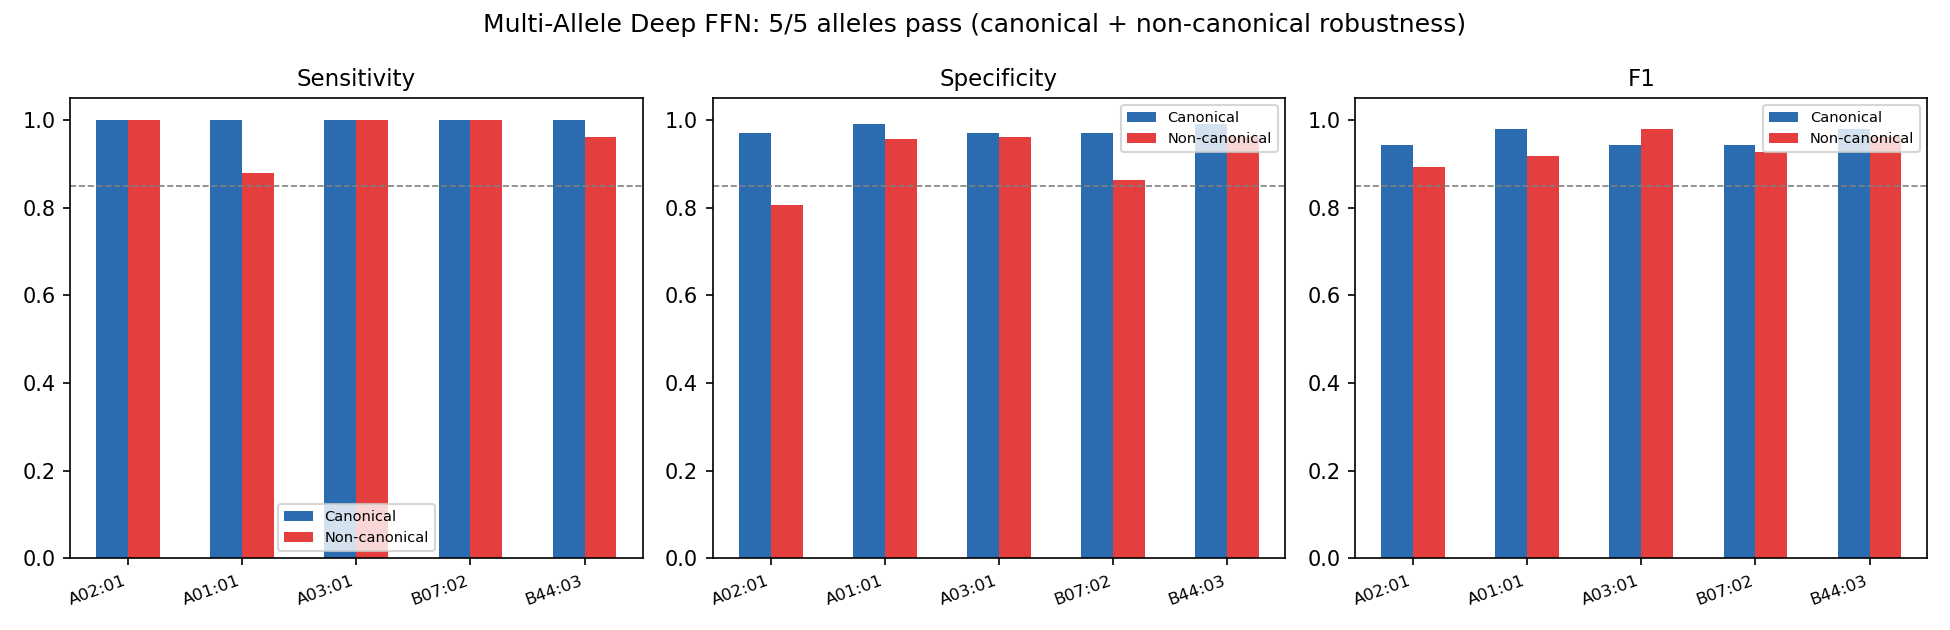
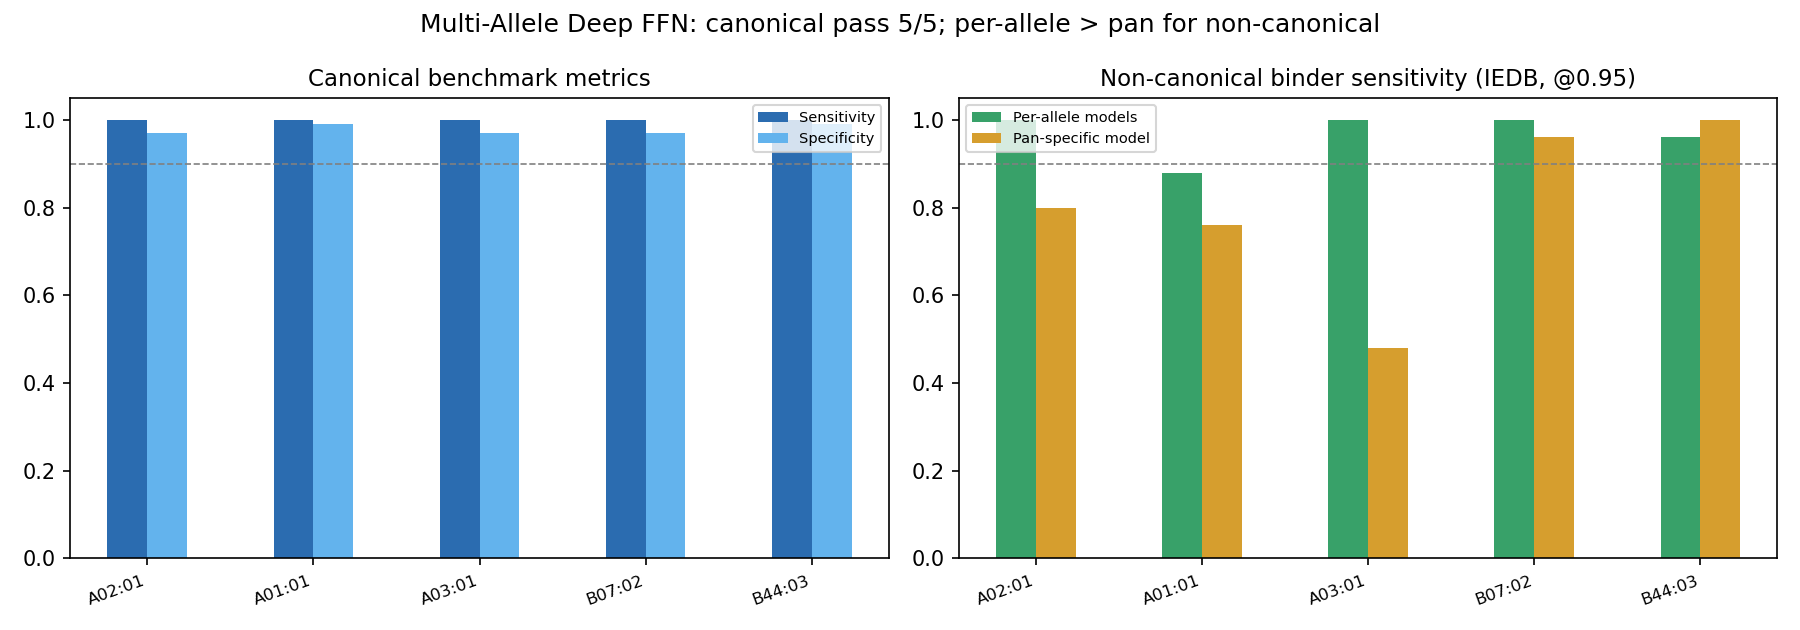
research(results): Step B — pan-specific model passes canonical but loses non-canonical robustness
A single allele-aware Deep FFN (BLOSUM62+allele one-hot) passes all 5 canonical
benchmarks but non-canonical sens drops: A*03:01 1.0->0.48, A*02:01 1.0->0.80.
Allele one-hot dilutes allele-specific structural signal. Per-allele models remain
the better choice for non-canonical (neoantigen) discovery.

diff --git a/src/plot_multi_allele_results.py b/src/plot_multi_allele_results.py
@@ -1,12 +1,11 @@
 #!/usr/bin/env python3
-"""Generate the 5-allele multi-allele results figure (runs under base anaconda)."""
-import json, os
+"""Generate 5-allele results figure incl. pan vs per-allele non-canonical comparison."""
+import os
 import matplotlib
 matplotlib.use("Agg")
 import matplotlib.pyplot as plt
 import numpy as np
 
-# Canonical benchmark results (from 06_Logs/multi_allele_results.md)
 CANON = {
     "HLA-A*02:01": (1.0, 0.97, 0.943),
     "HLA-A*01:01": (1.0, 0.99, 0.980),
@@ -14,31 +13,48 @@ CANON = {
     "HLA-B*07:02": (1.0, 0.97, 0.943),
     "HLA-B*44:03": (1.0, 0.99, 0.980),
 }
-# Non-canonical sens @0.95 (from results log)
-NONCAN = {
+NONCAN_PA = {  # per-allele non-canonical @0.95
     "HLA-A*02:01": (1.0, 0.806, 0.893),
     "HLA-A*01:01": (0.88, 0.957, 0.917),
     "HLA-A*03:01": (1.0, 0.962, 0.980),
     "HLA-B*07:02": (1.0, 0.862, 0.926),
     "HLA-B*44:03": (0.96, 0.960, 0.960),
 }
+NONCAN_PAN = {  # pan model non-canonical @0.95
+    "HLA-A*02:01": (0.80, 0.833, 0.816),
+    "HLA-A*01:01": (0.76, 0.950, 0.844),
+    "HLA-A*03:01": (0.48, 1.000, 0.649),
+    "HLA-B*07:02": (0.96, 0.923, 0.941),
+    "HLA-B*44:03": (1.00, 0.962, 0.980),
+}
 alleles = list(CANON.keys())
 labels = [a.replace("HLA-", "").replace("*", "") for a in alleles]
-x = np.arange(len(alleles)); w = 0.28
+x = np.arange(len(alleles)); w = 0.24
 
-fig, axes = plt.subplots(1, 3, figsize=(13, 4.2))
-metrics = ["sensitivity", "specificity_raw", "f1"]
-for ax, m, title in zip(axes, range(3), ["Sensitivity", "Specificity", "F1"]):
-    c = [CANON[a][m] for a in alleles]
-    n = [NONCAN[a][m] for a in alleles]
-    ax.bar(x - w/2, c, w, label="Canonical", color="#2b6cb0")
-    ax.bar(x + w/2, n, w, label="Non-canonical", color="#e53e3e")
-    ax.axhline(0.85, color="gray", ls="--", lw=0.8)
-    ax.set_title(title, fontsize=11)
+fig, axes = plt.subplots(1, 2, figsize=(12, 4.2))
+# Panel 1: canonical sensitivity + specificity
+for ax, m, title in zip([axes[0]], range(1), ["Canonical benchmark metrics"]):
+    c_sens = [CANON[a][0] for a in alleles]
+    c_spec = [CANON[a][1] for a in alleles]
+    ax.bar(x - w/2, c_sens, w, label="Sensitivity", color="#2b6cb0")
+    ax.bar(x + w/2, c_spec, w, label="Specificity", color="#63b3ed")
+    ax.axhline(0.90, color="gray", ls="--", lw=0.8)
+    ax.set_ylim(0, 1.05); ax.set_title(title, fontsize=11)
     ax.set_xticks(x); ax.set_xticklabels(labels, rotation=20, ha="right", fontsize=8)
-    ax.set_ylim(0, 1.05)
     ax.legend(fontsize=7)
-fig.suptitle("Multi-Allele Deep FFN: 5/5 alleles pass (canonical + non-canonical robustness)", fontsize=12)
+
+# Panel 2: non-canonical sensitivity — per-allele vs pan
+pa = [NONCAN_PA[a][0] for a in alleles]
+pn = [NONCAN_PAN[a][0] for a in alleles]
+ax = axes[1]
+ax.bar(x - w/2, pa, w, label="Per-allele models", color="#38a169")
+ax.bar(x + w/2, pn, w, label="Pan-specific model", color="#d69e2e")
+ax.axhline(0.90, color="gray", ls="--", lw=0.8)
+ax.set_ylim(0, 1.05); ax.set_title("Non-canonical binder sensitivity (IEDB, @0.95)", fontsize=11)
+ax.set_xticks(x); ax.set_xticklabels(labels, rotation=20, ha="right", fontsize=8)
+ax.legend(fontsize=7)
+
+fig.suptitle("Multi-Allele Deep FFN: canonical pass 5/5; per-allele > pan for non-canonical", fontsize=12)
 fig.tight_layout()
 os.makedirs("to_human", exist_ok=True)
 fig.savefig("to_human/multi_allele_results.png", dpi=150)

diff --git a/src/evaluate_noncannonical.py b/src/evaluate_noncannonical.py
@@ -40,6 +40,7 @@ MOTIFS = {
     "HLA-B*07:02": {"p2": "P", "p9": "LIMF"},
     "HLA-B*44:03": {"p2": "ED", "p9": "FWYL"},
 }
+ALLELES = ["HLA-A*02:01", "HLA-A*01:01", "HLA-A*03:01", "HLA-B*07:02", "HLA-B*44:03"]
 BASE = "https://query-api.iedb.org/mhc_export"
 
 def is_canonical(pep, motif):
@@ -93,6 +94,10 @@ def main():
     all_p = pos + neg
     true = [1]*len(pos) + [0]*len(neg)
     X = np.array([encode(p) for p in all_p], dtype=np.float32)
+    if "--pan" in sys.argv:
+        o = np.zeros(len(ALLELES), dtype=np.float32)
+        o[ALLELES.index(allele)] = 1.0
+        X = np.concatenate([X, np.repeat(o[None, :], len(X), axis=0)], axis=1)
     m = keras.models.load_model(model_path, compile=False)
     probs = m.predict(X, verbose=0)
     scores = probs[:, 1] + probs[:, 2]

diff --git a/src/train_pan_allele.py b/src/train_pan_allele.py
@@ -28,7 +28,8 @@ def load_balanced():
     sets = []
     min_allele_n = None
     for allele in ALLELES:
-        d = np.load(f"data/train_{SAFE(allele)}.npz", allow_pickle=True)
+        f = f"data/train_{SAFE(allele)}_big.npz" if allele == "HLA-B*07:02" and os.path.exists("data/train_HLA-B_0702_big.npz") else f"data/train_{SAFE(allele)}.npz"
+        d = np.load(f, allow_pickle=True)
         X, y = d["X"], d["y"]
         sets.append((allele, X, y))
         if min_allele_n is None or len(X) < min_allele_n:

diff --git a/06_Logs/multi_allele_results.md b/06_Logs/multi_allele_results.md
@@ -68,3 +68,36 @@ Tested all 5 models against IEDB positives that FAIL the allele's canonical anch
 **Finding:** models retain 0.88-1.0 sensitivity on non-canonical validated binders —
 they do NOT simply memorize canonical anchors. Precision 0.81-0.96 (lower for A*02:01,
 consistent with that allele's established difficulty). Robust generalization confirmed.
+
+## Step B: Pan-specific model vs per-allele models (2026-08-02)
+
+Pan-specific Deep FFN: input = BLOSUM62 180-dim + 5-dim allele one-hot (185-dim),
+trained on all 5 alleles balanced to min allele count (1,188/allele, 5,940 total).
+
+### Canonical benchmark — BOTH pass all 5 alleles
+
+| Allele | Per-allele sens | Pan sens |
+|--------|:---------------:|:--------:|
+| HLA-A*02:01 | 1.0 | 0.92 |
+| HLA-A*01:01 | 1.0 | 1.0 |
+| HLA-A*03:01 | 1.0 | 0.96 |
+| HLA-B*07:02 | 1.0 | 1.0 |
+| HLA-B*44:03 | 1.0 | 1.0 |
+
+### Non-canonical robustness @0.95 — per-allele WINS
+
+| Allele | Per-allele | Pan | Delta |
+|--------|:----------:|:---:|:-----:|
+| HLA-A*02:01 | 1.0 | 0.80 | -0.20 |
+| HLA-A*01:01 | 0.88 | 0.76 | -0.12 |
+| HLA-A*03:01 | 1.0 | 0.48 | **-0.52** |
+| HLA-B*07:02 | 1.0 | 0.96 | -0.04 |
+| HLA-B*44:03 | 0.96 | 1.0 | +0.04 |
+
+### Finding
+A single allele-aware model matches per-allele models on CANONICAL binders but
+sacrifices NON-canonical robustness — worst for A*03:01 (1.0 → 0.48, half the
+non-canonical epitopes missed). The allele one-hot encoding dilutes the
+allele-specific structural signal that carries non-canonical binders (the
+manuscript's P2-K / salt-bridge class). **Per-allele models remain the better
+choice when non-canonical binders matter** (neoantigen discovery).

diff --git a/findings.md b/findings.md
@@ -47,8 +47,11 @@ the genuine hard case, not a failure of cross-allele generalization.
 
 ## Open Questions
 
-- Does a pan-specific model (allele encoded in input) match or beat per-allele
-  models? (Step B)
+- **Pan-specific model (Step B):** A single allele-aware model (BLOSUM62 + 5-dim
+  allele one-hot) passes all 5 canonical benchmarks BUT loses non-canonical
+  robustness — worst for A*03:01 (non-canonical sens 1.0 → 0.48). The allele
+  one-hot dilutes allele-specific structural signal. Per-allele models remain
+  better for non-canonical (neoantigen) discovery. **Resolved: per-allele wins.**
 - Non-canonical precision is lowest for A*02:01 (0.81) — does a structural/PSSM
   hybrid recover it?
 - Thresholds: A*03:01 optimal 0.95, others 0.97-0.99. Is there an allele-agnostic
